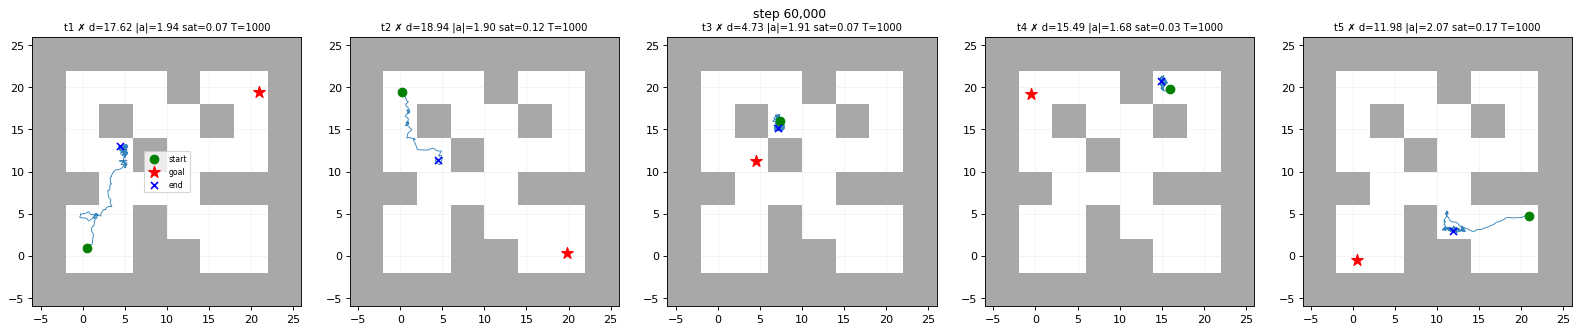
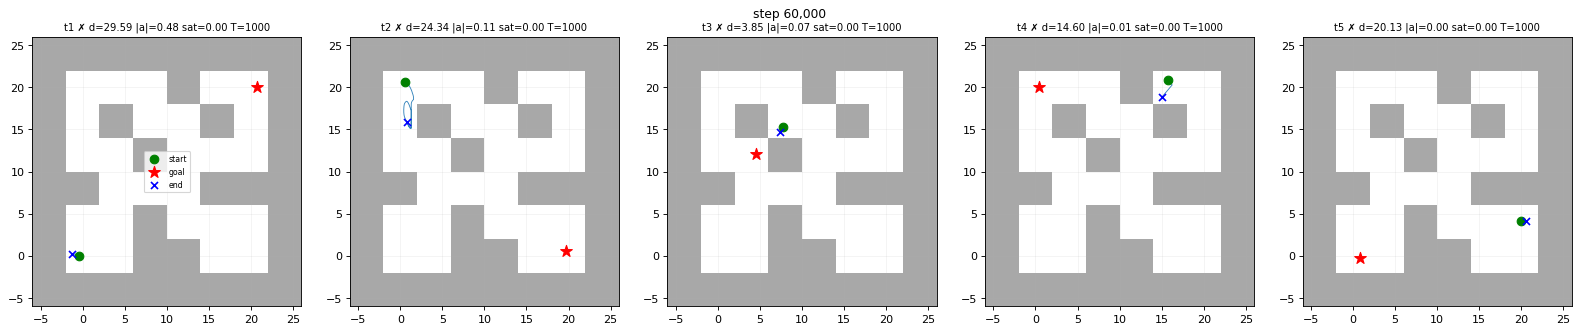
hi

diff --git a/src/networks.py b/src/networks.py
@@ -9,12 +9,25 @@ from typing_extensions import override
 
 
 class EncoderConfig:
-    def __init__(self, n_hidden: int, width: int, normalize_out: bool = True):
+    def __init__(
+        self, n_hidden: int, width: int, normalize_out: bool = True, siren_encoder=False
+    ):
         self.n_hidden = n_hidden
         self.width = width
         self.normalize_out = normalize_out
+        self.siren_encoder = siren_encoder
 
     def build_network(self, s_dim, out_dim):
+
+        if self.siren_encoder:
+            return SIRENEncoder(
+                s_dim,
+                out_dim,
+                self.width,
+                self.n_hidden,
+                normalize_representation=self.normalize_out,
+            )
+
         return StateEncoder(
             s_dim,
             out_dim,
@@ -58,13 +71,14 @@ def _build_mlp(
     input_dim: int,
     output_dim: int,
     hidden_dims,
+    input_activation=nn.Tanh,
     activation=nn.ReLU,
 ):
     layers = []
     layers += [
         nn.Linear(input_dim, hidden_dims[0]),
         nn.LayerNorm(hidden_dims[0]),
-        nn.Tanh(),
+        input_activation(),
     ]
 
     last_dim = hidden_dims[0]
@@ -90,12 +104,82 @@ def _build_embedding(
     hidden_activation=nn.ReLU,
 ):
 
-    seq = [nn.Linear(input_dim, width), nn.LayerNorm(width), input_activation()]
+    seq = [
+        nn.Linear(input_dim, width),
+        nn.LayerNorm(width),
+        input_activation(),
+    ]
     for i in range(1, depth):
         seq += [nn.Linear(width, width), hidden_activation()]
     seq += [nn.Linear(width, output_dim)]
 
     return nn.Sequential(*seq)
+
+
+class SIRENEncoder(nn.Module):
+    class SineLayer(nn.Module):
+        """SIREN layer: sin(omega_0 * (Wx+b)) with Sitzmann et al. (2020) init."""
+
+        def __init__(self, in_features, out_features, is_first=False, omega_0=16.0):
+            super().__init__()
+            self.in_features = in_features
+            self.omega_0 = omega_0
+            self.linear = nn.Linear(in_features, out_features)
+            with torch.no_grad():
+                bound = (
+                    (1.0 / in_features)
+                    if is_first
+                    else (math.sqrt(6.0 / in_features) / omega_0)
+                )
+                self.linear.weight.uniform_(-bound, bound)
+                self.linear.bias.zero_()
+
+        def forward(self, x):
+            return torch.sin(self.omega_0 * self.linear(x))
+
+    def __init__(
+        self,
+        input_dim: int,
+        output_dim: int,
+        width: int,
+        depth: int,
+        activation=nn.ReLU,
+        normalize_representation=True,
+    ):
+        super().__init__()
+
+        self.embed = nn.Sequential(
+            SIRENEncoder.SineLayer(input_dim, width, is_first=True),
+            SIRENEncoder.SineLayer(width, width),
+        )
+
+        self.net = nn.Sequential(
+            nn.Linear(width, width),
+            nn.ReLU(),
+            nn.Linear(width, width),
+            nn.ReLU(),
+            nn.Linear(width, output_dim),
+        )
+
+        def init_orthogonal(module):
+            if isinstance(module, nn.Linear):
+                nn.init.orthogonal_(module.weight)
+                if module.bias is not None:
+                    nn.init.zeros_(module.bias)
+
+        self.net.apply(init_orthogonal)
+
+        self.output_dim = output_dim
+        self.normalize_represenation = normalize_representation
+
+    @override
+    def forward(self, obs):
+        obs = 2 * (((obs + 2) / 25) - 0.5)
+        z = self.net(self.embed(obs))
+
+        if self.normalize_represenation:
+            z = math.sqrt(self.output_dim) * F.normalize(z, dim=-1)
+        return z
 
 
 class StateEncoder(nn.Module):
@@ -109,7 +193,12 @@ class StateEncoder(nn.Module):
         normalize_representation=True,
     ):
         super().__init__()
-        self.net = _build_embedding(input_dim, output_dim, width, depth)
+        self.net = _build_embedding(
+            input_dim,
+            output_dim,
+            width,
+            depth,
+        )
         self.output_dim = output_dim
         self.normalize_represenation = normalize_representation
         self.apply(self._init_weights)

diff --git a/src/train.py b/src/train.py
@@ -18,18 +18,22 @@ def default_config(env_name):
         return TD_JEPA_CONFIG(
             obs_dim=2,
             act_dim=2,
-            phi_dim=32,
-            psi_dim=32,
-            phi_config=EncoderConfig(n_hidden=4, width=128),
-            psi_config=EncoderConfig(n_hidden=4, width=128),
-            T_phi_config=FbConfig(width=512, n_sa=2, n_sz=2, n_shared=2),
-            T_psi_config=FbConfig(width=512, n_sa=2, n_sz=2, n_shared=2),
-            actor_config=ActorConfig(width=128, depth=4),
-            actor_bc_coeff=0,
-            actor_use_raw_obs=True,
-            lambda_phi=1,
-            lambda_psi=1,
-            #
+            phi_dim=128,
+            psi_dim=128,
+            phi_config=EncoderConfig(n_hidden=4, width=256, siren_encoder=True),
+            psi_config=EncoderConfig(n_hidden=4, width=256, siren_encoder=True),
+            T_phi_config=FbConfig(width=512, n_sa=3, n_sz=3, n_shared=3),
+            T_psi_config=FbConfig(width=512, n_sa=3, n_sz=3, n_shared=3),
+            actor_config=ActorConfig(width=256, depth=4),
+            actor_bc_coeff=0.3,
+            actor_use_raw_obs=False,
+            lambda_phi=1.0,
+            lambda_psi=1.0,
+            tau_encoder=0.001,
+            phi_lr=1e-5,
+            psi_lr=1e-5,
+            train_goal_ratio=0.125,
+            latent_z_batch_size=4,
         )
     if env_name.startswith("antmaze"):
         return TD_JEPA_CONFIG(
@@ -45,8 +49,8 @@ def default_config(env_name):
             # train_device="cpu",
             actor_bc_coeff=0.3,
             actor_use_raw_obs=True,
-            lambda_phi=1,
-            lambda_psi=1,
+            lambda_phi=2.0,
+            lambda_psi=2.0,
             #
         )
     raise ValueError(f"no default config for env {env_name!r}")
@@ -95,6 +99,9 @@ def train_env(args, config=None):
     morph = detect_morph(args.env_name)
     agent = TD_JEPA(config)  # pyright: ignore[reportArgumentType]
     t0 = time.time()
+
+    print(torch.max(buffer.s[:, 0]), torch.min(buffer.s[:, 0]))
+    print(torch.max(buffer.s[:, 1]), torch.min(buffer.s[:, 1]))
 
     log_buf = None
     n_info = 0
